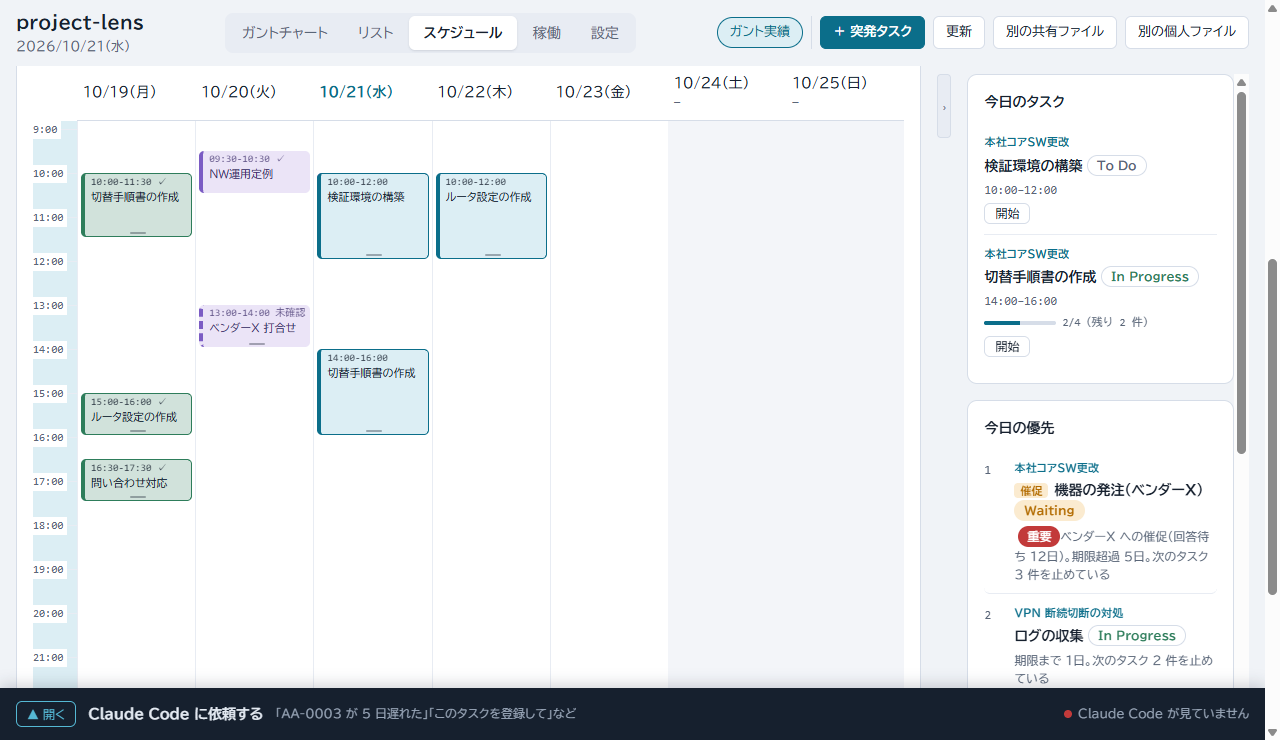
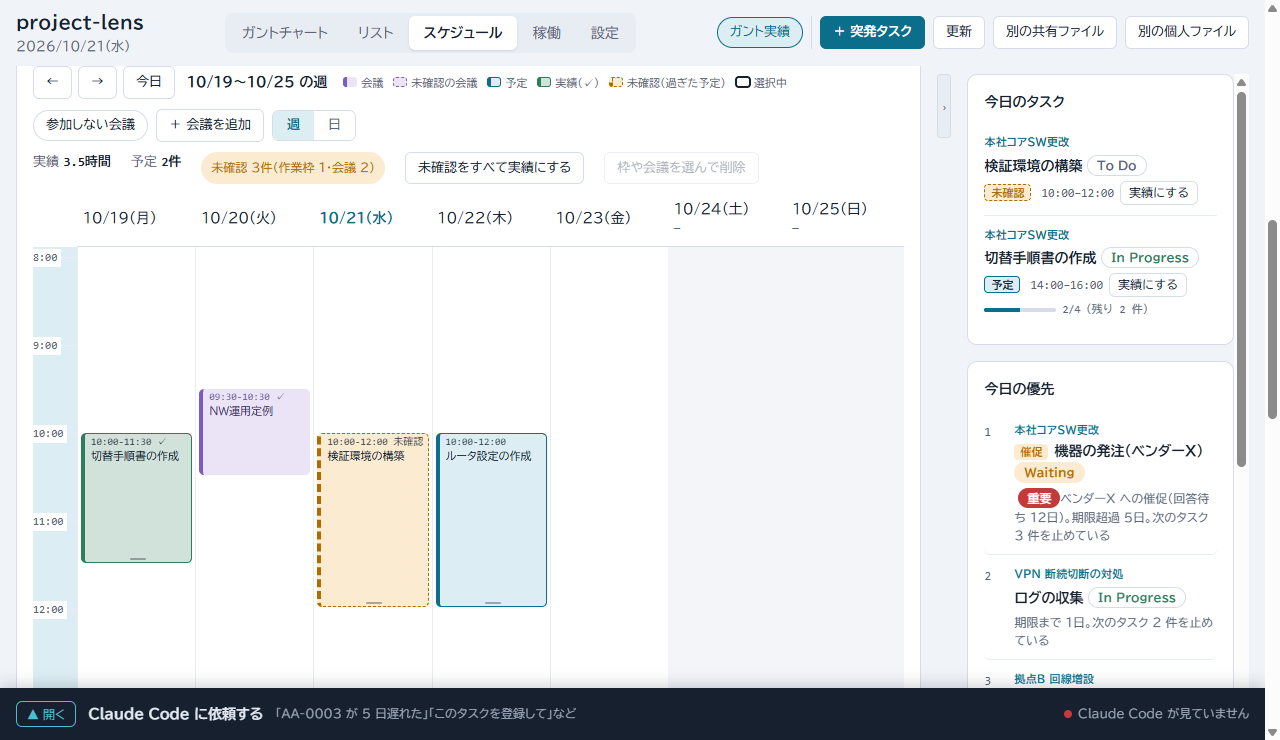
docs: 利用ガイドとREADMEの毎朝の流れの画面写真を、「実績にする」と新しいスケジュールの画面で撮り直す

diff --git a/docs/guide.md b/docs/guide.md
@@ -173,15 +173,15 @@ claude plugin uninstall project-lens@project-lens --keep-data
 
 ### 毎朝の流れ
 
-画面を開いて、今日やることを決め、やった時間を実績にします。次の 3 枚の画像は、架空のサンプルデータを、ファイル選択を差し替えて開いた画面です。日付は 2026-10-21 にし、「検証環境の構築」の作業枠（10:00〜12:00）は、画像のために手で足しました。このタスクは、前のタスクが終わるまで「今日の優先」に出ません。
+画面を開いて、今日やることを決め、やった時間を実績にします。次の 3 枚の画像は、架空のサンプルデータを、ファイル選択を差し替えて開いた画面です。日付は 2026-10-21、時刻は 12:30 にし、「検証環境の構築」の作業枠（10:00〜12:00）は、画像のために手で足しました（12:00 を過ぎたので「未確認」の札が付いています）。このタスクは、前のタスクが終わるまで「今日の優先」に出ません。
 
 1. **「今日の優先」を見る。** ガントチャートとリストの右側に、上位 4 件が優先順に並びます（スケジュール画面では、全件が並びます）。「今日のタスク」には、今日に作業枠があるタスクが並びます。
 
-   <img src="images/morning-1-priority.png" alt="ガントチャートの画面。右側の「今日のタスク」に、枠の時間と「実績にする」のボタンがあり、その下に「今日の優先」が並ぶ" width="800">
+   <img src="images/morning-1-priority.png" alt="ガントチャートの画面。右側の「今日のタスク」に、予定・未確認の札つきの枠の時間と「実績にする」のボタンがあり、その下に「今日の優先」が並ぶ" width="800">
 
 2. **今日やるタスクを、時間枠に置く。** 「スケジュール」で、「今日の優先」のタスクを今日の列へドラッグします（15 分刻み）。置いた枠は 1 時間の予定（今より前の時間に置いても予定）で、枠の端をつかんで長さを変えます。置いたタスクは、「今日のタスク」に出ます。
 
-   <img src="images/morning-2-schedule.png" alt="スケジュールの画面。週の枠に、タスクの作業枠と会議が並ぶ" width="800">
+   <img src="images/morning-2-schedule.png" alt="スケジュールの画面。上の行に色の凡例があり、週の枠の 8:00 からに、タスクの作業枠と会議が並ぶ" width="800">
 
 3. **「実績にする」を押す。** 「今日のタスク」には、今日の枠ごとに時間が並び、予定の枠（過ぎた予定の「未確認」を含む）には「実績にする」のボタンが付きます。予定どおりにやった枠のボタンを押すと、その枠が実績になり（時間は変わりません。違うときは、スケジュールで枠の端をつかんで直します）、To Do・Waiting のタスクは In Progress に変わります。終わったタスクは、リストなどの状態の欄で Done にします。変更は、その場で保存されます。
 
